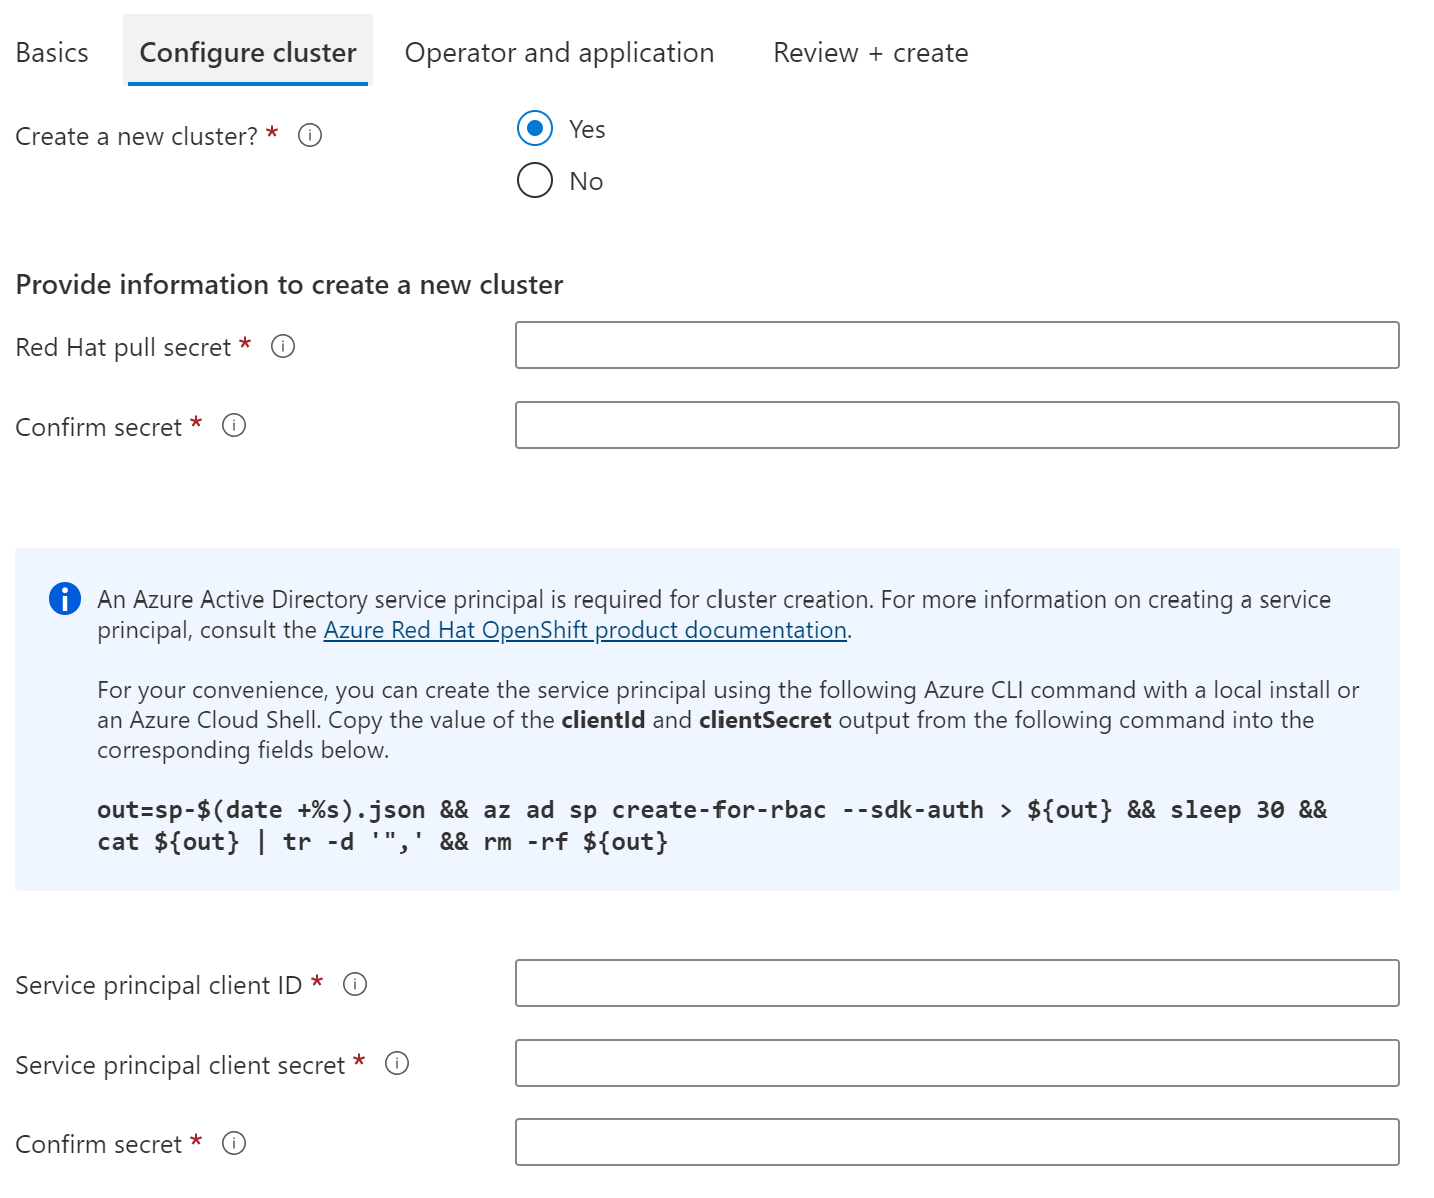
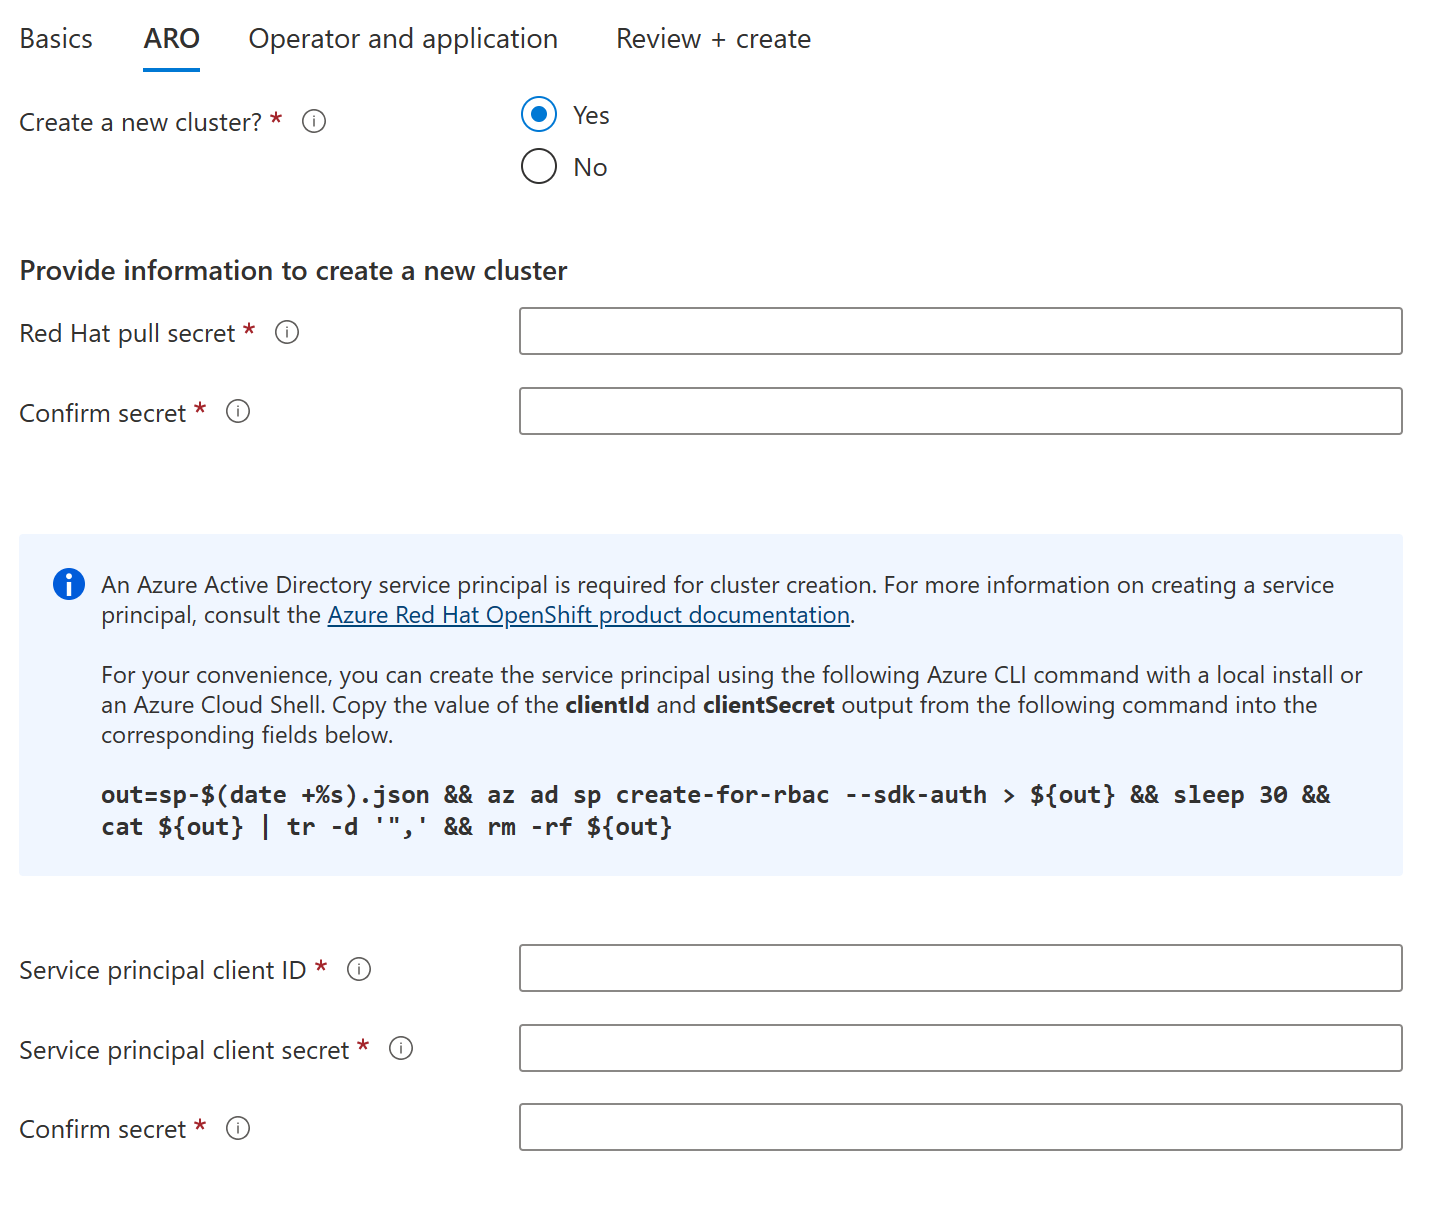
On branch quickstart-liberty-on-aro Validate steps. modified:   articles/java/ee/liberty-on-aro.md modified:   articles/java/ee/media/liberty-on-aro/azure-portal-create-service-principal.png modified:   articles/java/ee/media/liberty-on-aro/azure-portal-liberty-on-aro-configure-cluster.png new: arti

diff --git a/articles/java/ee/liberty-on-aro.md b/articles/java/ee/liberty-on-aro.md
@@ -16,6 +16,8 @@ This article shows you how to quickly stand up IBM WebSphere Liberty and Open Li
 
 - [!INCLUDE [quickstarts-free-trial-note](../../includes/quickstarts-free-trial-note.md)]
 
+- A Red Hat account with complete profile. If you don't have one, you can sign up for a free developer subscription through the [Red Hat Developer Subscription for Individuals](https://developers.redhat.com/register).
+
 - Use [Azure Cloud Shell](/azure/cloud-shell/quickstart) using the Bash environment; make sure the Azure CLI version is 2.43.0 or above.
 
    [![Launch Cloud Shell in a new window](../../includes/media/hdi-launch-cloud-shell.png)](https://shell.azure.com)
@@ -26,27 +28,27 @@ This article shows you how to quickly stand up IBM WebSphere Liberty and Open Li
 
 ## Get a Red Hat pull secret
 
-The Azure Marketplace offer you're going to use in this article requires a Red Hat pull secret. This section shows you how to get a Red Hat pull secret for ARO. For more information, see [Get a Red Hat pull secret ](/azure/openshift/tutorial-create-cluster?WT.mc_id=Portal-fx#get-a-red-hat-pull-secret-optional).
+The Azure Marketplace offer you're going to use in this article requires a Red Hat pull secret. This section shows you how to get a Red Hat pull secret for ARO. To learn about what a Red Hat pull secret is and why you need it, see [Get a Red Hat pull secret ](/azure/openshift/tutorial-create-cluster?WT.mc_id=Portal-fx#get-a-red-hat-pull-secret-optional). To simply get the pull secret for use, continue to follow the steps in this section.
 
-[Navigate to your Red Hat OpenShift cluster manager portal](https://console.redhat.com/openshift/install/azure/aro-provisioned) and log in. If you don't have a Red Hat account, you need to create a new Red Hat account with your business email and accept the terms and conditions.
+Use your Red Hat account to sign in to the OpenShift cluster manager portal, by visiting the [Red Hat OpenShift Hybrid Cloud Console](https://console.redhat.com/openshift/install/azure/aro-provisioned). You may need to accept additional terms and update your account as shown here. Use the same password as when you created the account.
 
-After you log in, select **OpenShit**, **Downloads**. Scroll down to the button of the page, you'll find **Tokens**. Under the **Pull secret**, select **Copy** or **Download** to get the value, as the following screenshot shows. 
+:::image type="content" source="media/liberty-on-aro/redhat-account-complete-profile.png" alt-text="Complete your Red Hat profile" lightbox="media/liberty-on-aro/redhat-account-complete-profile.png":::
+
+After you log in, select **OpenShit** then **Downloads**. Select the **All categories** dropdown and select **Tokens**. Under the **Pull secret**, select **Copy** or **Download** to get the value, as the following screenshot shows.
 
 :::image type="content" source="media/liberty-on-aro/redhat-console-portal-pull-secret.png" alt-text="Screenshot of Red Hat console portal showing the pull secret." lightbox="media/liberty-on-aro/redhat-console-portal-pull-secret.png":::
-
-You can also log in https://cloud.redhat.com/openshift/install/pull-secret to navigate to the pull secret quickly.
 
 The following content is an example that was copied from Red Hat console portal, the auth codes are replaced with `xxxx...xxx`.
 
 ```json
-{"auths":{"cloud.openshift.com":{"auth":"xxxx...xxx","email":"contoso@test.com"},"quay.io":{"auth":"xxx...xxx","email":"contoso@test.com"},"registry.connect.redhat.com":{"auth":"xxxx...xxx","email":"contoso@test.com"},"registry.redhat.io":{"auth":"xxxx...xxx","email":"contoso@test.com"}}}
+{"auths":{"cloud.openshift.com":{"auth":"xxxx...xxx","email":"contoso-user@contoso.com"},"quay.io":{"auth":"xxx...xxx","email":"contoso-user@test.com"},"registry.connect.redhat.com":{"auth":"xxxx...xxx","email":"contoso-user@contoso.com"},"registry.redhat.io":{"auth":"xxxx...xxx","email":"contoso-user@contoso.com"}}}
 ```
 
-Save the secret to a file, you'll use it in the later section.
+Save the secret to a file, you'll use it later section.
 
 ## Create an Azure AD Service Principal from Azure portal
 
-The Azure Marketplace offer you're going to use in this article requires a service principal to deploy your Azure Red Hat OpenShift clusters. The offer assigns the service principal with proper privilege during deployment time, no role assignment needed. If you have a service principal ready to use, skip this section and move on to deploy the offer.
+The Azure Marketplace offer you're going to use in this article requires a service principal to deploy your Azure Red Hat OpenShift cluster. The offer assigns the service principal with proper privileges during deployment time, no role assignment needed. If you have a service principal ready to use, skip this section and move on to deploy the offer.
 
 This section shows you how to deploy a service principal and get its Application (client) ID and secret from Azure portal. For more information, see [Create and use a service principal to deploy an Azure Red Hat OpenShift cluster](/azure/openshift/howto-create-service-principal?pivots=aro-azureportal).
 
@@ -59,27 +61,27 @@ If you run into a problem, check the [required permissions](/azure/active-direct
 - Select **Azure Active Directory**.
 - Select **App registrations**.
 - Select **New registration**.
-- Name the application, for example "liberty-on-aro-app". Select a supported account type, which determines who can use the application. After setting the values, select **Register**. It takes several seconds to provision the application. Wait for the deployment completes before you move on.
+- Name the application, for example "liberty-on-aro-app". Select a supported account type, which determines who can use the application. After setting the values, select **Register**. It takes several seconds to provision the application. Wait for the deployment to complete before proceeding.
 
     :::image type="content" source="media/liberty-on-aro/azure-portal-create-service-principal.png" alt-text="Screenshot of Azure portal showing creating service principal." lightbox="media/liberty-on-aro/azure-portal-create-service-principal.png":::
 
-- Obtain the Application (client) ID from the overview page, as the screenshot shows. Save the Application ID to a file, you'll use it later.
+- Save the Application (client) ID from the overview page. Hover the pointer over the value and select the copy icon that appears. The tooltip will say **Copy to clipboard**. Be careful to copy the correct value, since the other values in that section also have copy icons. Save the Application ID to a file, you'll use it later.
 
     :::image type="content" source="media/liberty-on-aro/azure-portal-obtain-service-principal-client-id.png" alt-text="Screenshot of Azure portal showing service principal client ID." lightbox="media/liberty-on-aro/azure-portal-obtain-service-principal-client-id.png":::
 
 - Create a new application secret. 
   - Select **Certificates & secrets**.
-  - Select **Client secrets** -> **New client secret**.
+  - Select **Client secrets**, then **New client secret**.
   - Provide a description of the secret, and a duration. When done, select **Add**.
   - After the client secret is added, the value of the client secret is displayed. Copy this value because you won't be able to retrieve the key later. 
 
 You've created your Azure AD application, service principal and client secret.
 
-## Deploy IBM WebSphere Liberty and Open Liberty on Azure Red Hat OpenShift
+## Deploy IBM WebSphere Liberty or Open Liberty on Azure Red Hat OpenShift
 
-The steps in this section direct you to deploy IBM WebSphere Liberty and Open Liberty on Azure Red Hat OpenShift.
+The steps in this section direct you to deploy IBM WebSphere Liberty or Open Liberty on Azure Red Hat OpenShift.
 
-The following steps show you how to find the offer and fill out the **Basics** pane.
+The following steps show you how to find the offer and fill out the **Basics** blade.
 
 1. In the search bar at the top of the Azure portal, enter *Liberty*. In the auto-suggested search results, in the **Marketplace** section, select **IBM WebSphere Liberty and Open Liberty on Azure Red Hat OpenShift**.
 
@@ -89,15 +91,15 @@ The following steps show you how to find the offer and fill out the **Basics** p
 
 1. On the offer page, select **Create**.
 
-1. On the **Basics** pane, ensure the value shown in the **Subscription** field is the same one that has the roles listed in the prerequisites section.
+1. On the **Basics** blade, ensure the value shown in the **Subscription** field is the same one that has the roles listed in the prerequisites section.
 
-1. The offer must be deployed in an empty resource group. In the **Resource group** field, select **Create new** and fill in a value for the resource group. Because resource groups must be unique within a subscription, pick a unique name. An easy way to have unique names is to use a combination of your initials, today's date, and some identifier. For example, *libertyrg20221227*.
+1. The offer must be deployed in an empty resource group. In the **Resource group** field, select **Create new** and fill in a value for the resource group. Because resource groups must be unique within a subscription, pick a unique name. An easy way to have unique names is to use a combination of your initials, today's date, and some identifier. For example, *abc1228rg*.
 
-1. Under **Instance details**, select the region for the deployment. For a list of Azure regions how and where OpenShift operates, see [Regions for Red Hat OpenShift 4.x on Azure](https://azure.microsoft.com/explore/global-infrastructure/products-by-region/?products=openshift&regions=all).
+1. Under **Instance details**, select the region for the deployment. For a list of Azure regions where OpenShift operates, see [Regions for Red Hat OpenShift 4.x on Azure](https://azure.microsoft.com/explore/global-infrastructure/products-by-region/?products=openshift&regions=all).
 
-The following steps show you how to fill out **Configure cluster** pane.
+The following steps show you how to fill out the **ARO** blade.
 
-:::image type="content" source="media/liberty-on-aro/azure-portal-liberty-on-aro-configure-cluster.png" alt-text="Screenshot of Azure portal showing IBM WebSphere Liberty and Open Liberty on Azure Red Hat OpenShift Configure cluster blade." lightbox="media/liberty-on-aro/azure-portal-liberty-on-aro-configure-cluster.png":::
+:::image type="content" source="media/liberty-on-aro/azure-portal-liberty-on-aro-configure-cluster.png" alt-text="Screenshot of Azure portal showing IBM WebSphere Liberty and Open Liberty on Azure Red Hat OpenShift ARO blade." lightbox="media/liberty-on-aro/azure-portal-liberty-on-aro-configure-cluster.png":::
 
 1. Under **Create a new cluster**, select **Yes**.
 
@@ -107,7 +109,7 @@ The following steps show you how to fill out **Configure cluster** pane.
 
 1. Fill in **Service principal client secret** with your service principal Application secret that you obtained in [Create an Azure AD Service Principal from Azure portal](#create-an-azure-ad-service-principal-from-azure-portal). Use the same value for **Confirm secret**.
 
-The following steps show you how to fill out **Operator and application** pane and start the deployment.
+The following steps show you how to fill out **Operator and application** blade and start the deployment.
 
 :::image type="content" source="media/liberty-on-aro/azure-portal-liberty-on-aro-operator-and-application.png" alt-text="Screenshot of Azure portal showing IBM WebSphere Liberty and Open Liberty on Azure Red Hat OpenShift Operator and application blade." lightbox="media/liberty-on-aro/azure-portal-liberty-on-aro-operator-and-application.png":::
 
@@ -127,13 +129,13 @@ Depending on network conditions and other activity in your selected region, the 
 
 The steps in this section show you how to verify the deployment has successfully completed.
 
-If you navigated away from the **Deployment is in progress** page, the following steps will show you how to get back to that page. If you're still on the page that shows **Your deployment is complete**, you can skip the steps and go to following image.
+If you navigated away from the **Deployment is in progress** page, the following steps will show you how to get back to that page. If you're still on the page that shows **Your deployment is complete**, you can skip to the step after the image below.
 
 1. In the upper left of any portal page, select the hamburger menu and select **Resource groups**.
 
 1. In the box with the text **Filter for any field**, enter the first few characters of the resource group you created previously. If you followed the recommended convention, enter your initials, then select the appropriate resource group.
 
-1. In the left navigation pane, in the **Settings** section, select **Deployments**. You'll see an ordered list of the deployments to this resource group, with the most recent one first.
+1. In the left navigation blade, in the **Settings** section, select **Deployments**. You'll see an ordered list of the deployments to this resource group, with the most recent one first.
 
 1. Scroll to the oldest entry in this list. This entry corresponds to the deployment you started in the preceding section. Select the oldest deployment, as shown here.
 
@@ -144,7 +146,7 @@ If you navigated away from the **Deployment is in progress** page, the following
 1. Open Azure Cloud Shell, paste the value of **cmdToGetKubeadminCredentials**, you'll get the admin account and credential to log in OpenShit cluster console portal. The following content is an example of an admin account.
 
     ```bash
-    user@Azure:~$ az aro list-credentials -g libertyrg20221227 -n clusterf9e8b9
+    user@Azure:~$ az aro list-credentials -g abc1228rg -n clusterf9e8b9
     {
       "kubeadminPassword": "xxxxx-xxxxx-xxxxx-xxxxx",
       "kubeadminUsername": "kubeadmin"
